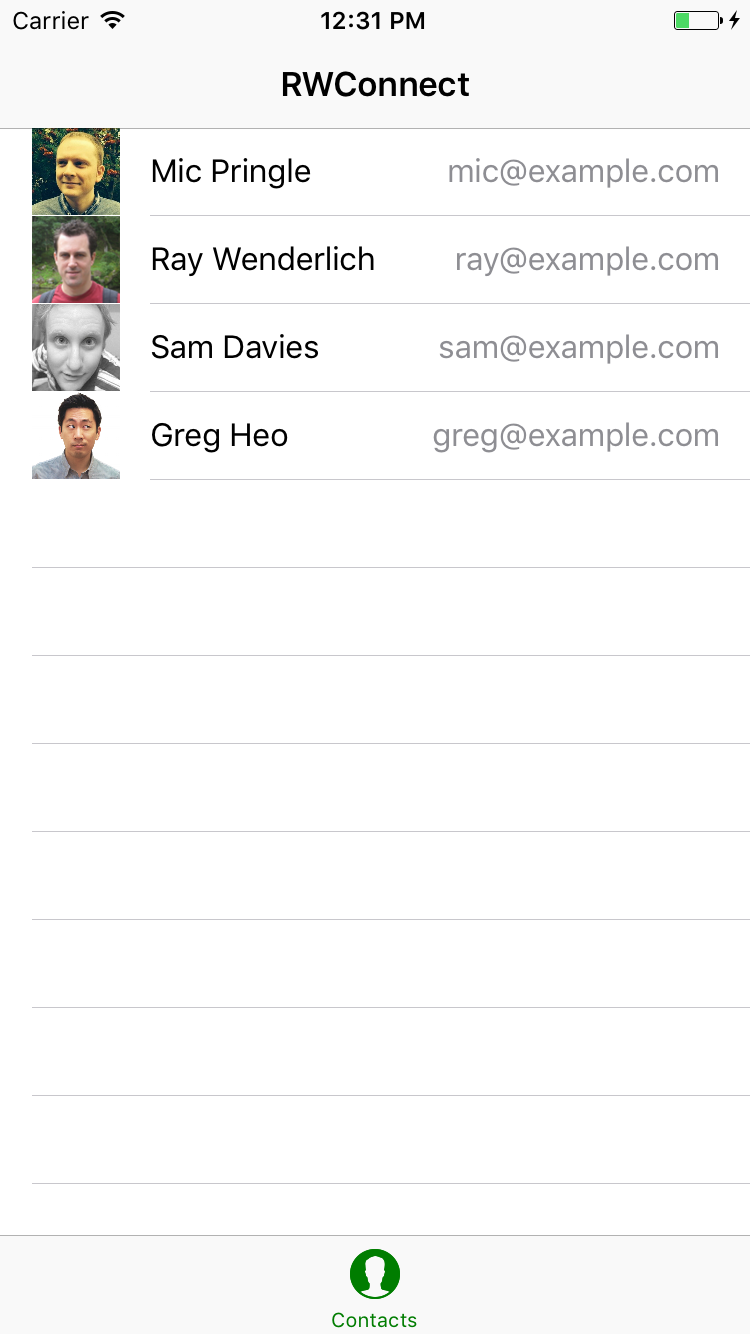
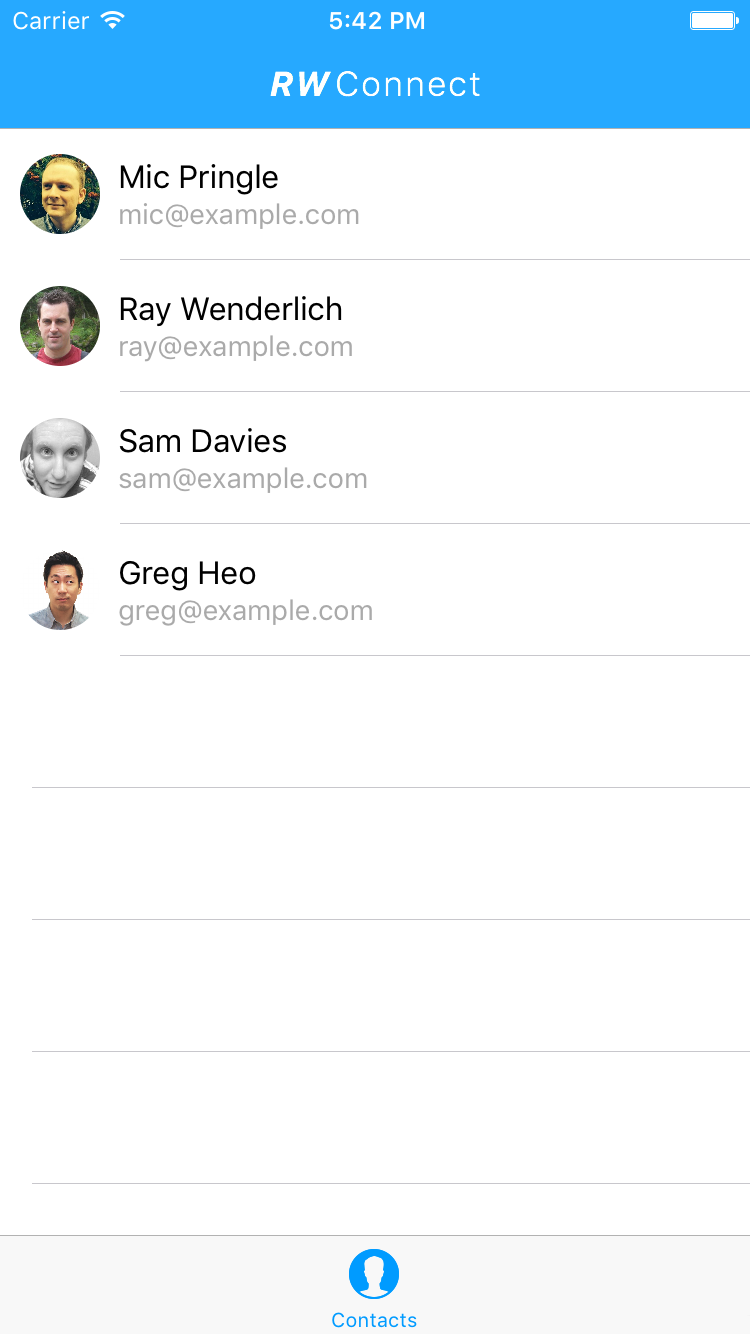
Updated Screenshots + Text to reflect design changes
FPE: make sure that there aren’t any artifacts left from the old design
in the chapter.

diff --git a/contacts/projects/starter/RWConnect/RWConnect/Friend.swift b/contacts/projects/starter/RWConnect/RWConnect/Friend.swift
@@ -42,6 +42,6 @@ struct Friend: Equatable{
 	}
 	
 	static func defaultContacts() -> [Friend] {
-		return [Friend(firstName: "Mic", lastName: "Pringle", workEmail: "mic@example.com", profilePicture: UIImage(named: "MicProfilePicture")), Friend(firstName: "Sam", lastName: "Davies", workEmail: "sam@example.com", profilePicture: UIImage(named: "SamProfilePicture")), Friend(firstName: "Greg", lastName: "Heo", workEmail: "greg@example.com", profilePicture: UIImage(named: "GregProfilePicture")), Friend(firstName: "Ray", lastName: "Wenderlich", workEmail: "ray@example.com", profilePicture: UIImage(named: "RayProfilePicture"))]
+		return [Friend(firstName: "Mic", lastName: "Pringle", workEmail: "mic@example.com", profilePicture: UIImage(named: "MicProfilePicture")), Friend(firstName: "Ray", lastName: "Wenderlich", workEmail: "ray@example.com", profilePicture: UIImage(named: "RayProfilePicture")), Friend(firstName: "Sam", lastName: "Davies", workEmail: "sam@example.com", profilePicture: UIImage(named: "SamProfilePicture")), Friend(firstName: "Greg", lastName: "Heo", workEmail: "greg@example.com", profilePicture: UIImage(named: "GregProfilePicture"))]
 	}
 }

diff --git a/contacts/projects/final/RWConnect/RWConnect/FriendsViewController.swift b/contacts/projects/final/RWConnect/RWConnect/FriendsViewController.swift
@@ -49,7 +49,7 @@ class FriendsViewController: UITableViewController {
             let dismissAction = UIAlertAction(title: "OK", style: .Cancel, handler: nil)
             alert.addAction(openSettingsAction)
             alert.addAction(dismissAction)
-            
+            self.presentViewController(alert, animated: true, completion: nil)
         }
     }
     
